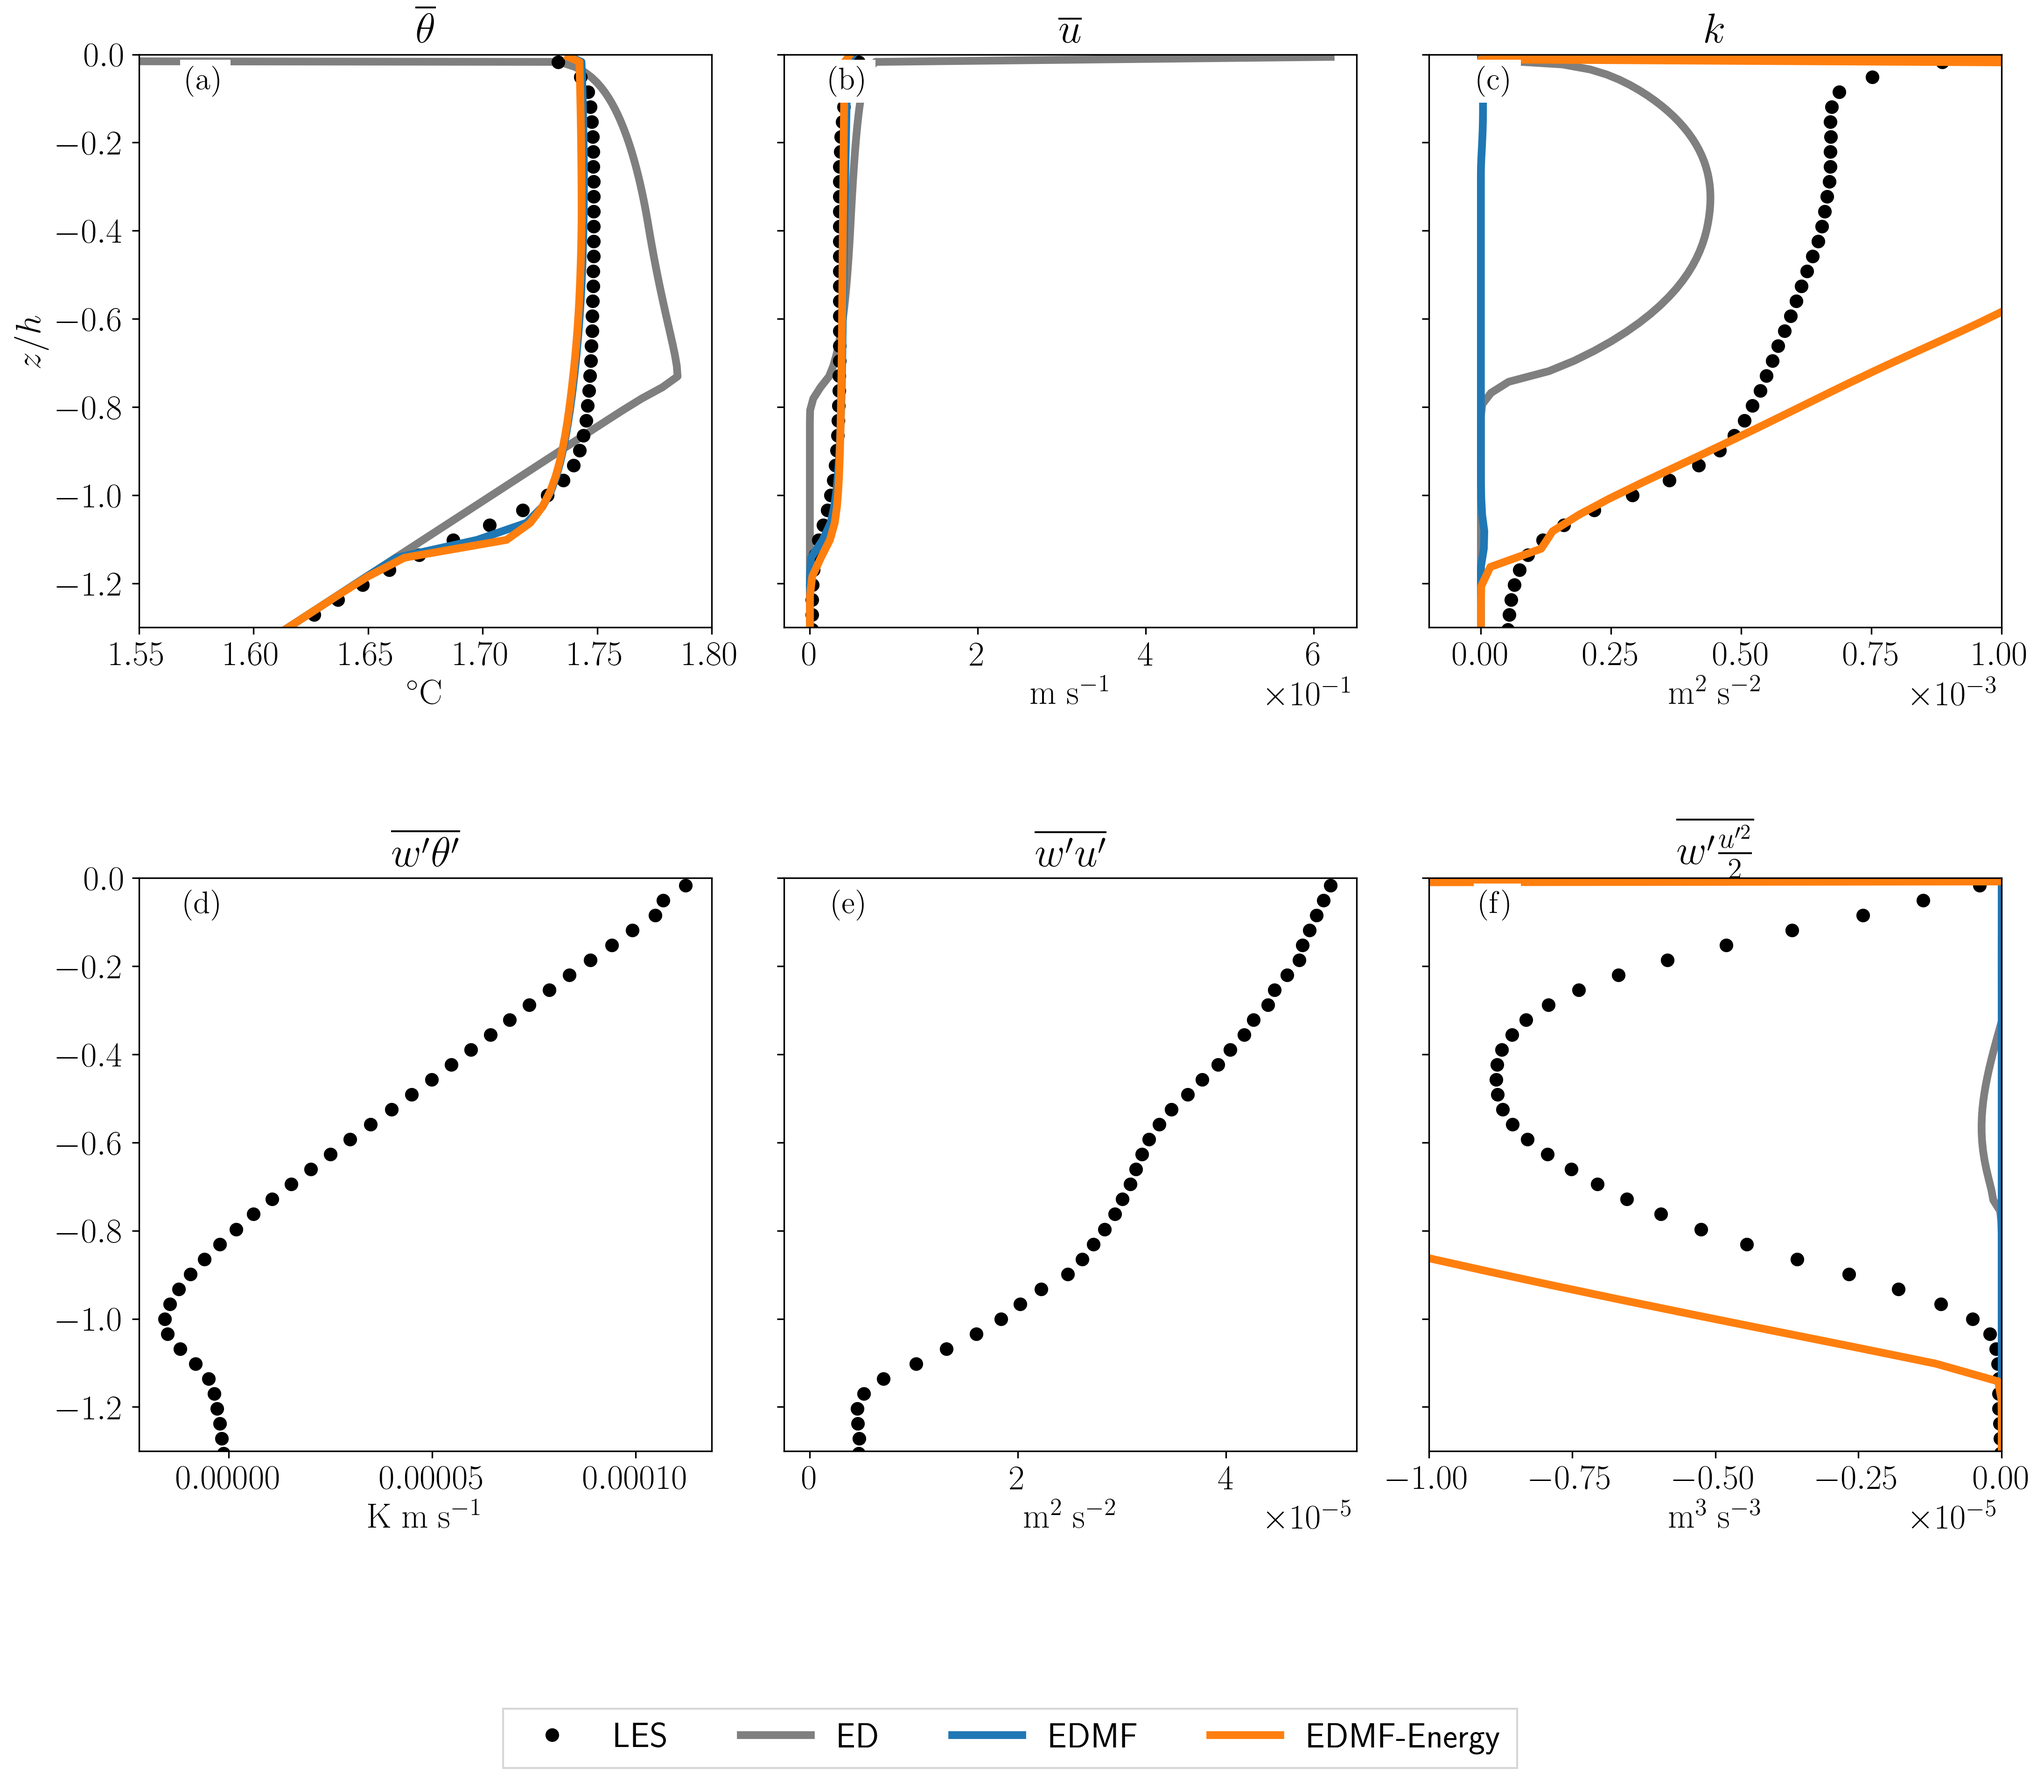
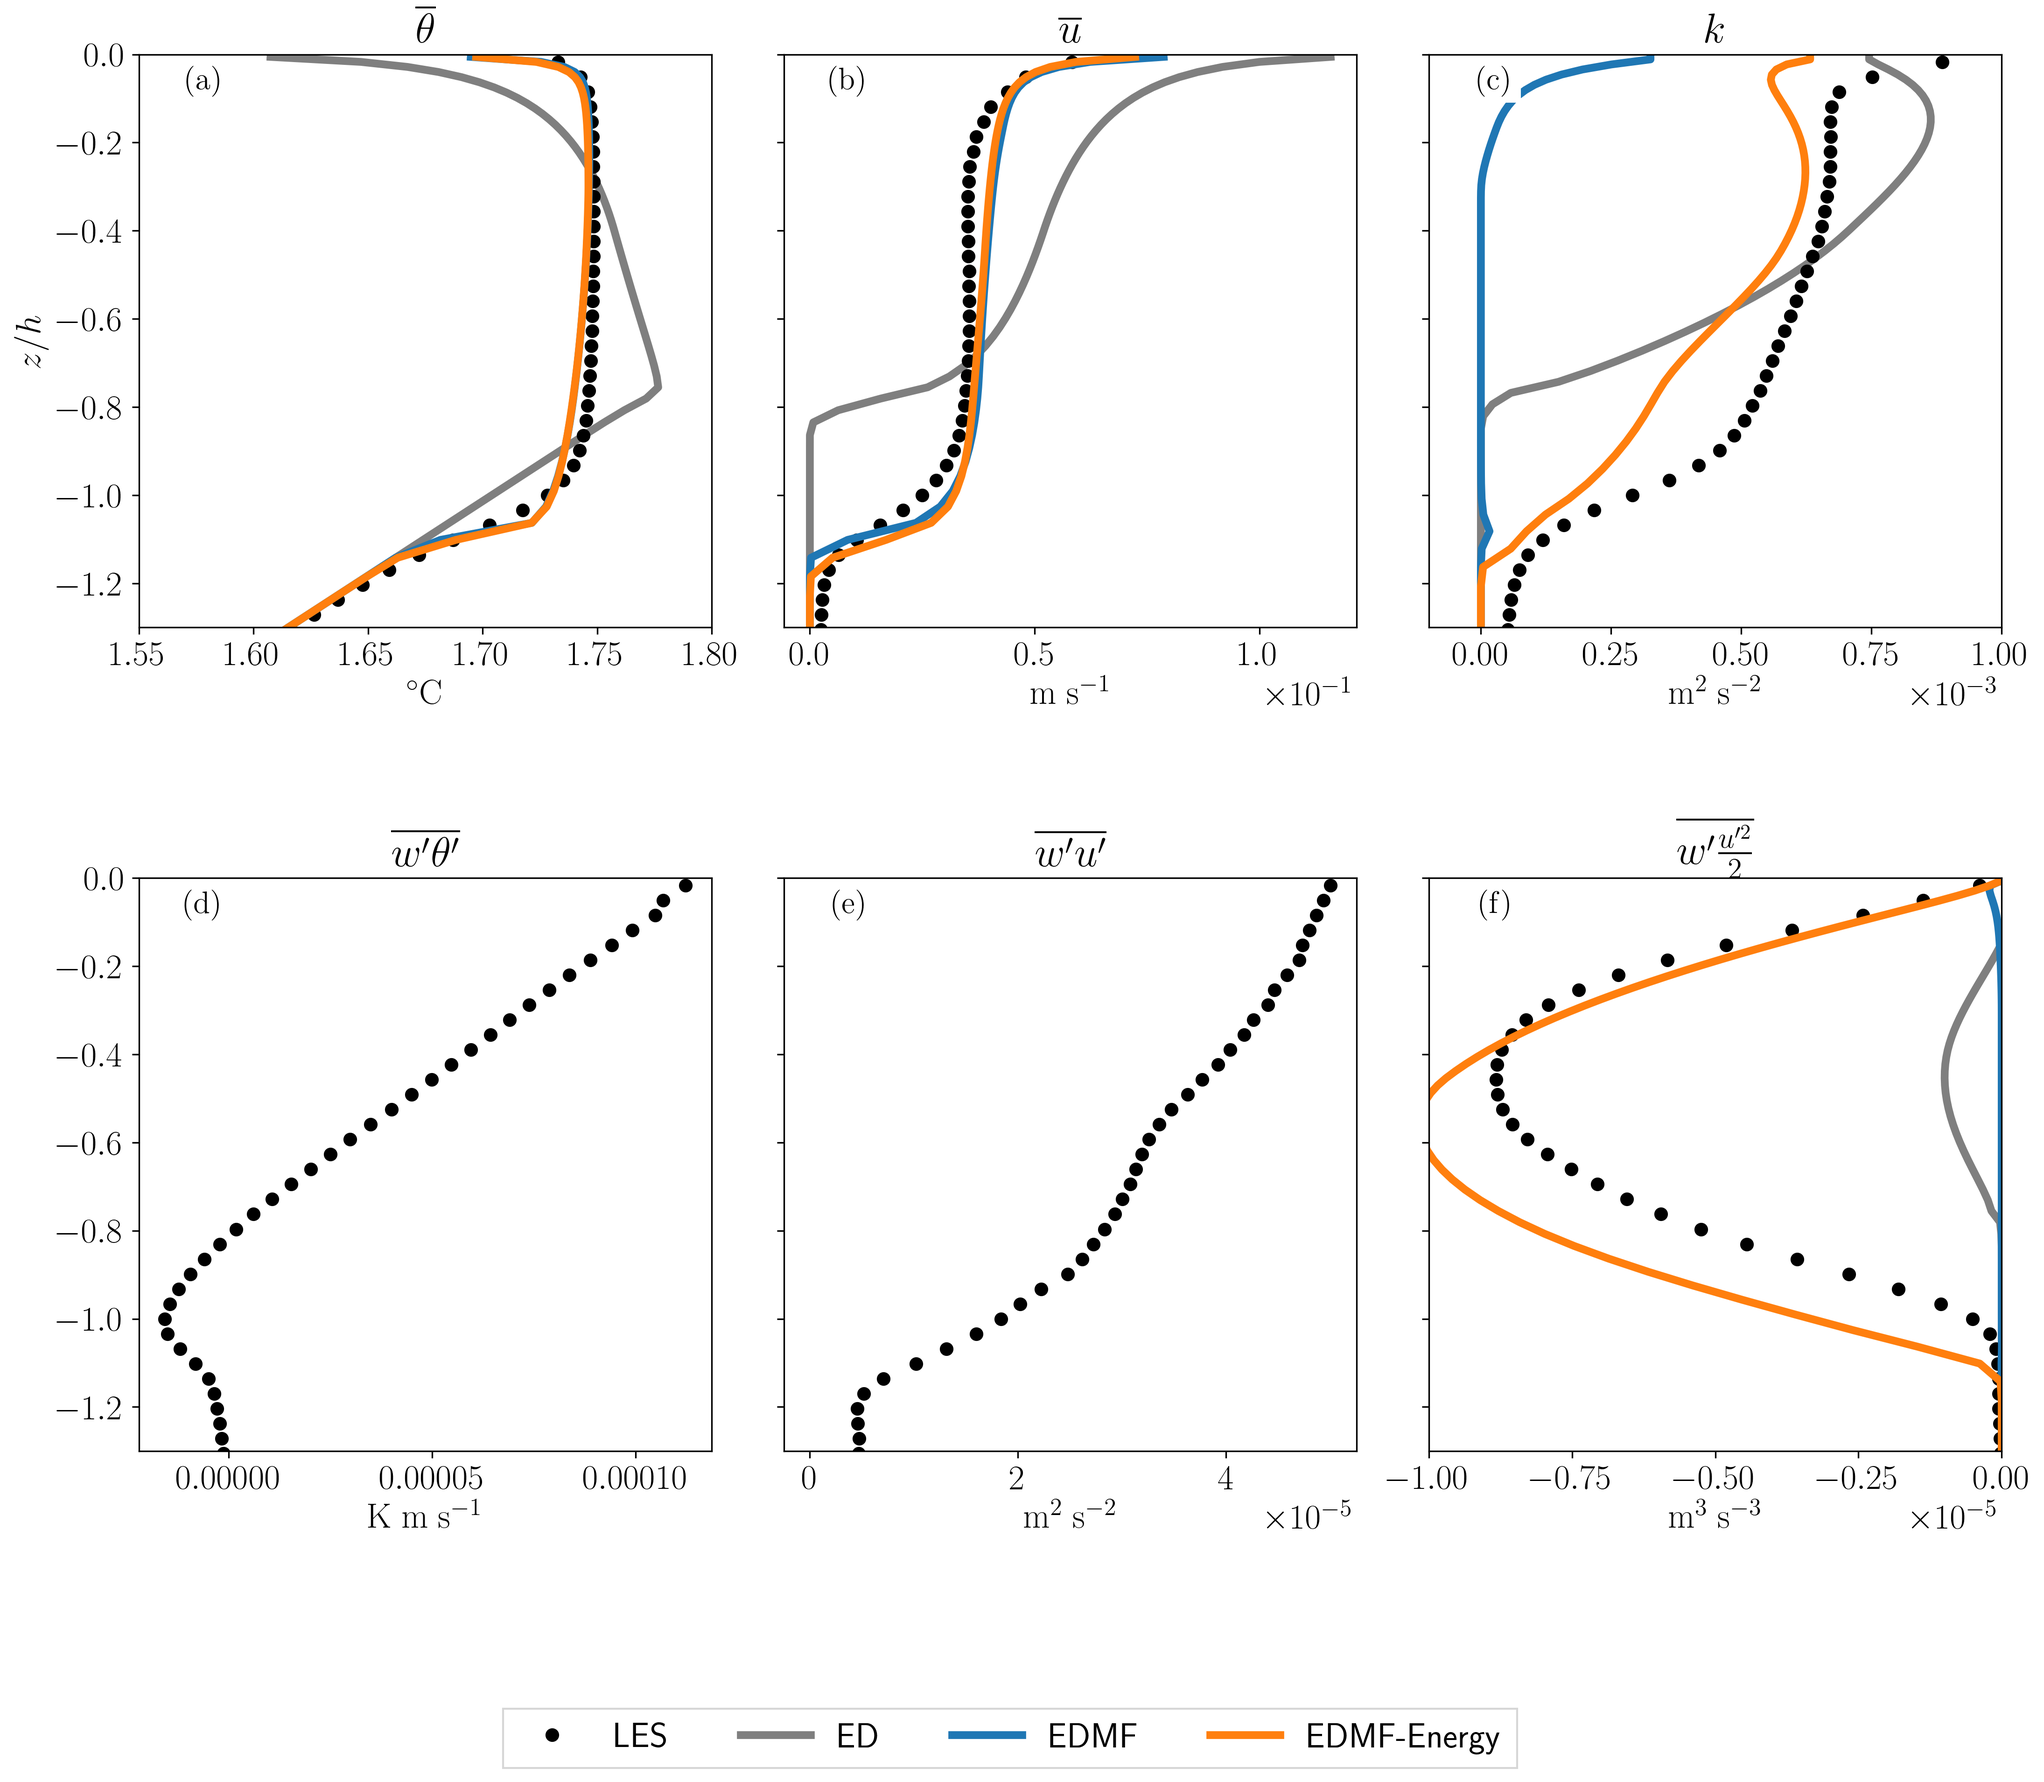
delta/h b'/h param

diff --git a/edmf/src/W005_C500_NO_COR72h_profile_LES_vs_EDMF.py b/edmf/src/W005_C500_NO_COR72h_profile_LES_vs_EDMF.py
@@ -110,12 +110,12 @@ common_params = {
     'Cdet': 1.99,       # 'Cdet': 2.5,
     'wp_a': 1.,
     'wp_b': 1.25,      # 'wp_b': 1.
-    'wp_bp': 0.003,     #      0.002,
+    'wp_bp': 0.003*250,     #      0.002,
     'up_c': 0.5,
     'vp_c': 0.5,
     'bc_ap': 0.2,    #0.3,
-    'delta_bkg': 0.005,   # 0.006,
-    'wp0' : -50.e-03,
+    'delta_bkg': 0.005*250,   # 0.006,
+    'wp0' : -1.e-08,
     'output_filename': 'run'
 }
 
